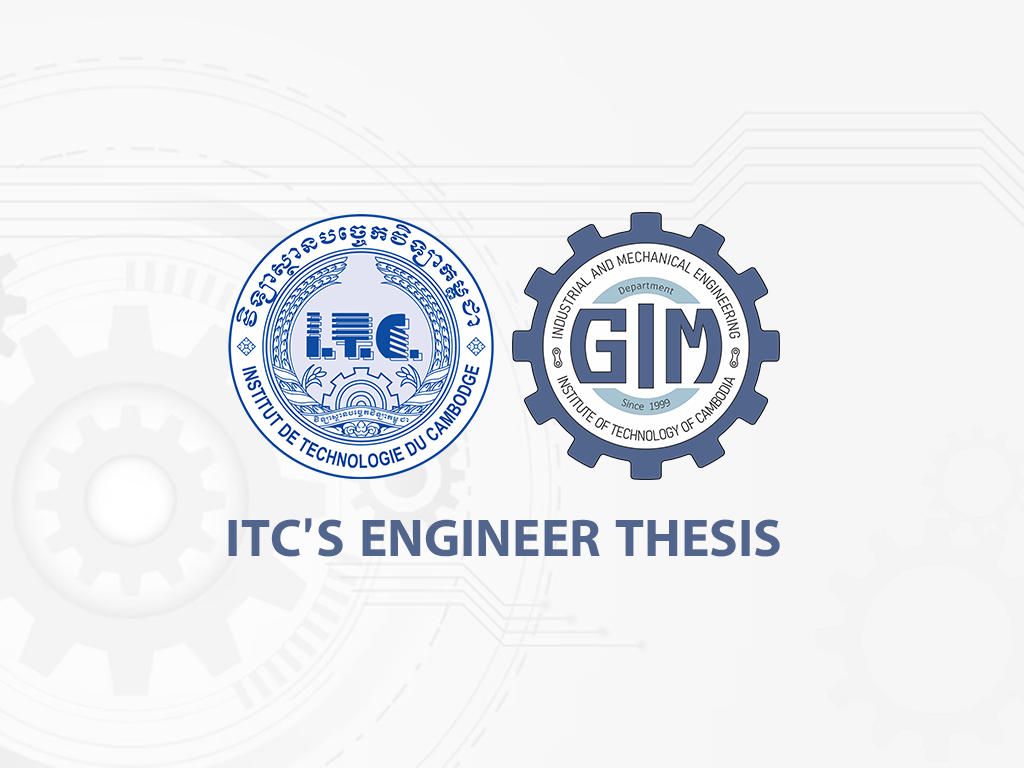
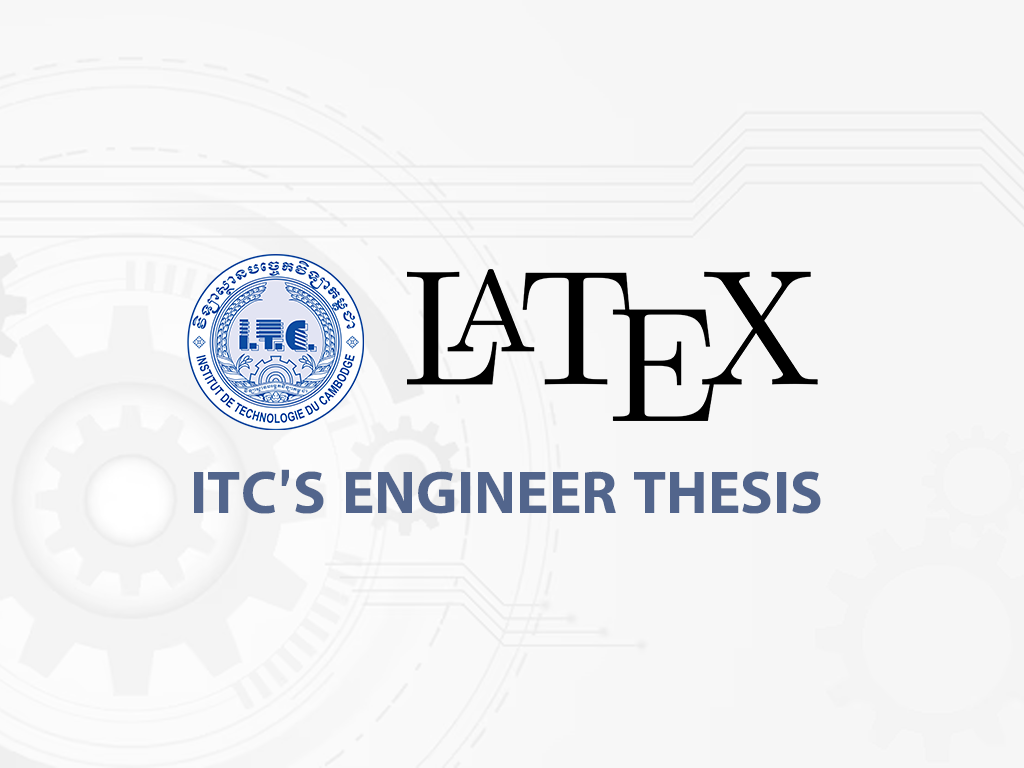
itc thesis blog update

Changed region(s): [[0.1875, 0.25, 0.8125, 0.75]]

diff --git a/docs/blog/2024-07-25-itc_thesis.html b/docs/blog/2024-07-25-itc_thesis.html
@@ -9,7 +9,7 @@
 <meta name="author" content="LY Pechvattana">
 <meta name="dcterms.date" content="2024-07-25">
 
-<title>A guide for writing engineering thesis for ITC students – LY Pechvattana</title>
+<title>A guide for using Latex for Engineering Thesis – LY Pechvattana</title>
 <style>
 code{white-space: pre-wrap;}
 span.smallcaps{font-variant: small-caps;}
@@ -109,15 +109,21 @@ ul.task-list li input[type="checkbox"] {
 <div id="quarto-content" class="quarto-container page-columns page-rows-contents page-layout-article page-navbar">
 <!-- sidebar -->
 <!-- margin-sidebar -->
-    <div id="quarto-margin-sidebar" class="sidebar margin-sidebar zindex-bottom">
-        
+    <div id="quarto-margin-sidebar" class="sidebar margin-sidebar">
+        <nav id="TOC" role="doc-toc" class="toc-active">
+    <h2 id="toc-title">On this page</h2>
+   
+  <ul>
+  <li><a href="#why-you-should-use-latex" id="toc-why-you-should-use-latex" class="nav-link active" data-scroll-target="#why-you-should-use-latex">Why you should use Latex?</a></li>
+  </ul>
+</nav>
     </div>
 <!-- main -->
 <main class="content" id="quarto-document-content">
 
 <header id="title-block-header" class="quarto-title-block default">
 <div class="quarto-title">
-<h1 class="title">A guide for writing engineering thesis for ITC students</h1>
+<h1 class="title">A guide for using Latex for Engineering Thesis</h1>
   <div class="quarto-categories">
     <div class="quarto-category">Thesis</div>
     <div class="quarto-category">Engineering</div>
@@ -150,9 +156,21 @@ ul.task-list li input[type="checkbox"] {
 </header>
 
 
-<p>This guide aims to provide an standard format and tips to write a correct thesis report. Keep in mind that is guide is apply to only the students from Institute of Technology of Cambodia, mainly the department of Industrial and Mechanical engineering. Although the guideline is applied to all and each</p>
+<p>Before we begin, I’d like to clarify that this is personal advice based on my experience. Although all of the departments at Institute of Technology of Cambodia(ITC) follow the same format, differences do exist. This guide is mainly based on department of Industrial and Mechanical Engineering’s requirements.</p>
+<section id="objectives-of-this-guideline" class="level4">
+<h4 class="anchored" data-anchor-id="objectives-of-this-guideline">Objectives of this guideline</h4>
+<ol type="1">
+<li>To show how to use ITC Latex template for engineering thesis on Overleaf.</li>
+<li>To guide you on how to label equation, table, figure correctly.</li>
+<li>Frequence mistakes that you need to watch out.</li>
+</ol>
+</section>
+<section id="why-you-should-use-latex" class="level2">
+<h2 class="anchored" data-anchor-id="why-you-should-use-latex">Why you should use Latex?</h2>
+<p>Latex is far more difficult to use than Microsoft Word, particularly for beginners. However, when writing an engineering thesis, where a slight shift in alignment by 1 point is considered a mistake, it is more convenient. Especially if the school has a pre-designed template, you don’t need much coding knowledge to use it. This guideline will explain a few commands you’ll need to know in order to complete your thesis.</p>
 
 
+</section>
 
 </main> <!-- /main -->
 <script id="quarto-html-after-body" type="application/javascript">

diff --git a/docs/index.html b/docs/index.html
@@ -218,7 +218,7 @@ window.Quarto = {
 
 <div class="quarto-listing quarto-listing-container-grid" id="listing-listing">
 <div class="list grid quarto-listing-cols-3">
-<div class="g-col-1" data-index="0" data-categories="Thesis,Engineering" data-listing-date-sort="1721840400000" data-listing-file-modified-sort="1721981842521" data-listing-date-modified-sort="NaN" data-listing-reading-time-sort="1" data-listing-word-count-sort="53">
+<div class="g-col-1" data-index="0" data-categories="Thesis,Engineering" data-listing-date-sort="1721840400000" data-listing-file-modified-sort="1721982922499" data-listing-date-modified-sort="NaN" data-listing-reading-time-sort="1" data-listing-word-count-sort="153">
 <a href="./blog/2024-07-25-itc_thesis.html" class="quarto-grid-link">
 <div class="quarto-grid-item card h-100 card-left">
 <p class="card-img-top">
@@ -226,7 +226,7 @@ window.Quarto = {
 </p>
 <div class="card-body post-contents">
 <h5 class="no-anchor card-title listing-title">
-A guide for writing engineering thesis for ITC students
+A guide for using Latex for Engineering Thesis
 </h5>
 <div class="listing-reading-time card-text text-muted">
 1 min
@@ -240,7 +240,7 @@ Engineering
 </div>
 </div>
 <div class="card-text listing-description">
-This guide aims to provide an standard format and tips to write a correct thesis report. Keep in…
+Before we begin, I’d like to clarify that this is personal advice based on my experience. Although…
 </div>
 <div class="card-attribution card-text-small justify">
 <div class="listing-author">
